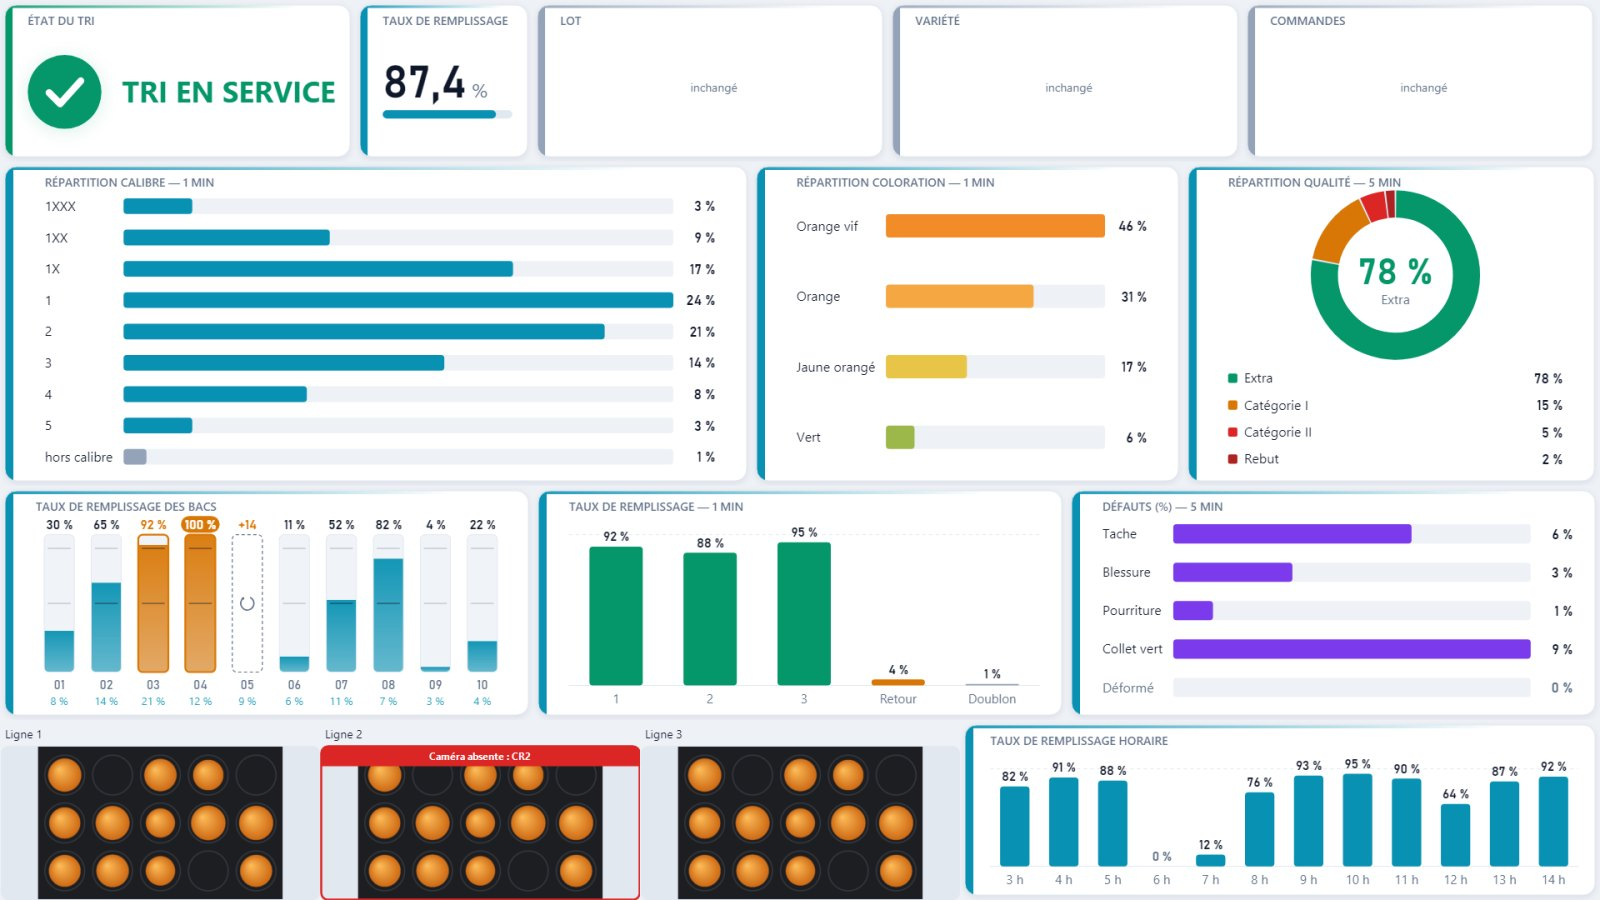
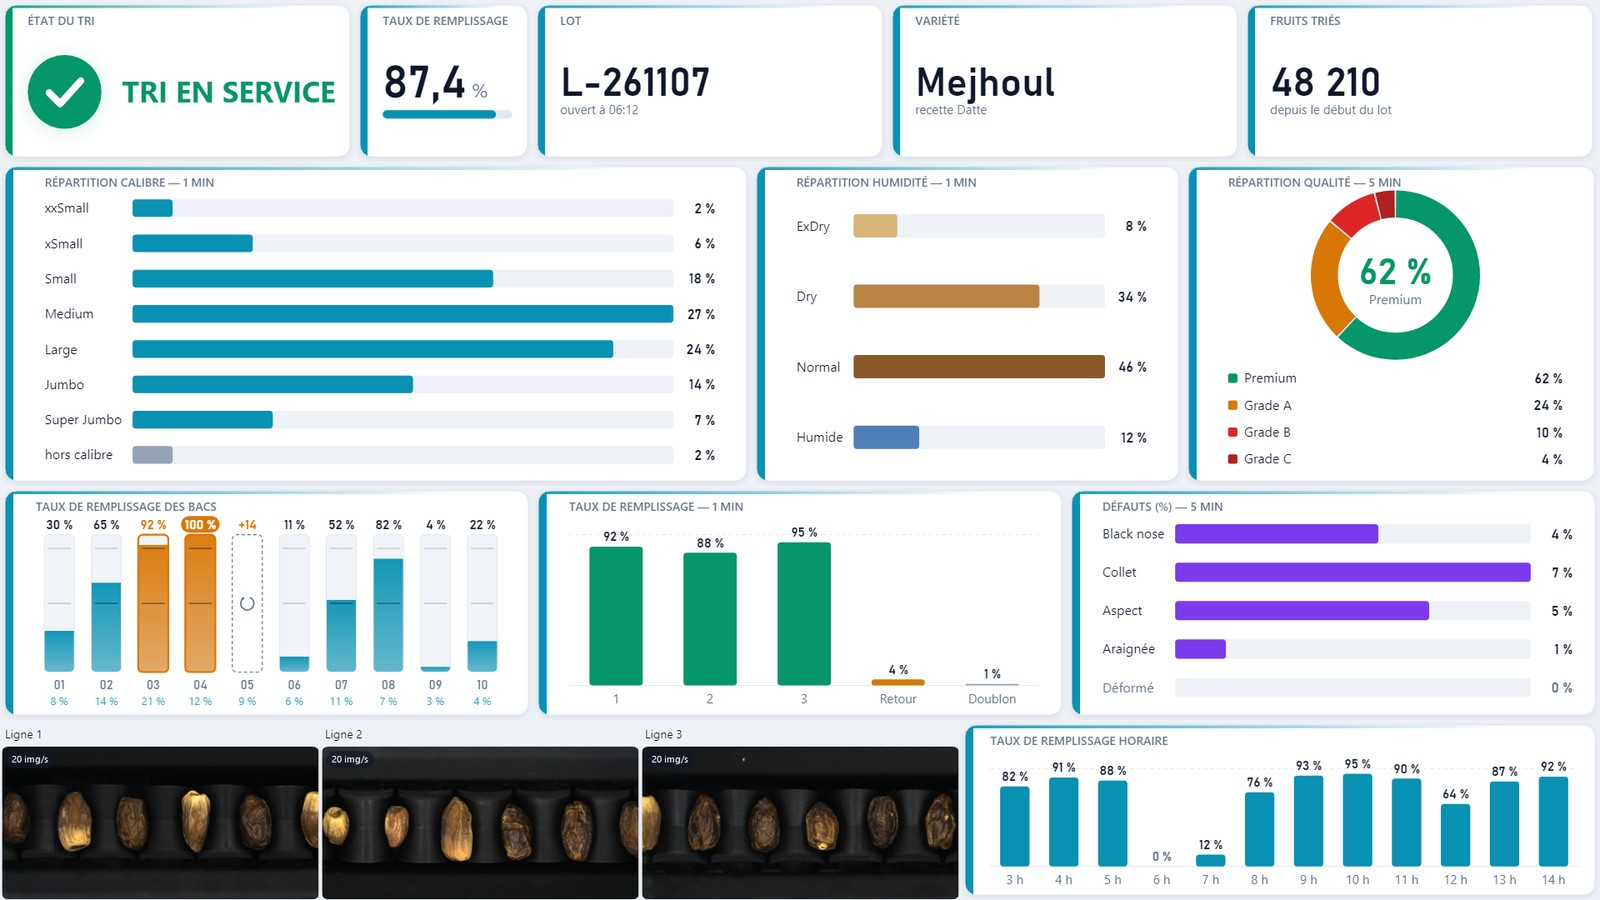
Suivi de production en vraies images dt01 ; texte de la vidéo
- Tuile « Suivi de production » (et écran du pupitre dans la simulation) : écran rendu par
  les composants de l'application, trois vraies vues caméra de dattes (dt01) à la place des
  oranges dessinées ; données d'exemple au vocabulaire datte (calibres xxSmall à Super Jumbo,
  humidité ExDry/Dry/Normal/Humide, Premium/Grade A-C, défauts black nose, collet, aspect,
  araignée) ; lot, variété et fruits triés au lieu de cases « inchangé ».
- Vidéo : « Reportage sur une ligne de tomates cerises au Maroc… » (le début coupé montrait
  des fruits du monde entier).

diff --git a/ar/index.html b/ar/index.html
@@ -518,7 +518,7 @@ html[dir=rtl] .chiffres div:last-child{border-left:0}
       <p class="chapo">واجهة لمسية مصمّمة للورشة: أزرار كبيرة، وحالات تُقرأ من بعيد، وإعدادات تبقى بين أيدي الأشخاص المخوَّلين.</p>
     </div>
     <div class="bento">
-      <div class="tuile ecran t1 apparait"><img src="../media/ui-suivi.jpg" alt="شاشة متابعة الإنتاج في Freescan" loading="lazy"><div class="legende"><h3>متابعة الإنتاج في الوقت الحقيقي</h3><p>حالة الفرز، وامتلاء الحاويات، والتوزيع حسب الحجم واللون والجودة، وصور الكاميرات.</p></div></div>
+      <div class="tuile ecran t1 apparait"><img src="../media/ui-suivi.jpg?v=2" alt="شاشة متابعة الإنتاج في Freescan" loading="lazy"><div class="legende"><h3>متابعة الإنتاج في الوقت الحقيقي</h3><p>حالة الفرز، وامتلاء الحاويات، والتوزيع حسب الحجم واللون والجودة، وصور الكاميرات.</p></div></div>
       <div class="tuile ecran t2 apparait"><img src="../media/ui-couleur.jpg" alt="شاشة تحديد الألوان" loading="lazy"><div class="legende"><h3>لون قابل للضبط</h3><p>مدرّج الصبغة، وعتبات تُضبط باللمس.</p></div></div>
       <div class="tuile ecran t3 apparait"><img src="../media/ui-vues.jpg?v=2" alt="شاشة التأهيل: صور حقيقية من الكاميرا لطماطم كرزية متشققة" loading="lazy"><div class="legende"><h3>المشغّل يُصادق</h3><p>عيب مشكوك فيه؟ نعم أو لا: والذكاء الاصطناعي يتعلّم.</p></div></div>
       <div class="tuile t4 apparait"><div class="ico"><svg viewBox="0 0 24 24" fill="none" stroke="currentColor" stroke-width="1.8" stroke-linecap="round" stroke-linejoin="round"><rect x="4" y="4" width="16" height="16" rx="2"/><path d="M9 9h6v6H9zM9 1v3M15 1v3M9 20v3M15 20v3M20 9h3M20 14h3M1 9h3M1 14h3"/></svg></div><h3>ذكاء اصطناعي على GPU</h3><p>شبكات عصبية مُدرَّبة على فواكهكم، تعمل على بطاقة رسومية.</p></div>
@@ -536,7 +536,7 @@ html[dir=rtl] .chiffres div:last-child{border-left:0}
     <div class="apparait">
       <span class="surtitre">أثناء العمل</span>
       <h2>Freescan في الميدان.</h2>
-      <p class="chapo">من فواكه العالم إلى خطوط التلفيف المغربية: اكتشفوا آلة الفرز أثناء الإنتاج.</p>
+      <p class="chapo">روبورتاج من خط تلفيف الطماطم الكرزية بالمغرب: آلة الفرز أثناء الإنتاج، من خطوط الفرز إلى الصناديق.</p>
     </div>
     <div class="film apparait" id="film">
       <video preload="none" playsinline controls poster="../media/presentation.jpg?v=2"><source src="../media/presentation.mp4?v=2" type="video/mp4"></video>
@@ -678,6 +678,6 @@ html[dir=rtl] .chiffres div:last-child{border-left:0}
 <script>
 (function(){try{var c=document.createElement('canvas');if(!(c.getContext('webgl2')||c.getContext('webgl')))throw 0}catch(e){document.documentElement.classList.add('sans-webgl')}})();
 </script>
-<script type="module" src="../js/anatomie.js?v=17"></script>
+<script type="module" src="../js/anatomie.js?v=18"></script>
 </body>
 </html>

diff --git a/index.html b/index.html
@@ -495,7 +495,7 @@ footer a:hover{color:var(--texte)}
       <p class="chapo">Une interface tactile pensée pour l'atelier : grands boutons, états lisibles de loin, et des réglages qui restent entre les mains de personnes habilitées.</p>
     </div>
     <div class="bento">
-      <div class="tuile ecran t1 apparait"><img src="media/ui-suivi.jpg" alt="Écran Suivi de production de Freescan" loading="lazy"><div class="legende"><h3>Suivi de production en temps réel</h3><p>État du tri, remplissage des bacs, répartition par calibre, couleur et qualité, images des caméras.</p></div></div>
+      <div class="tuile ecran t1 apparait"><img src="media/ui-suivi.jpg?v=2" alt="Écran Suivi de production de Freescan" loading="lazy"><div class="legende"><h3>Suivi de production en temps réel</h3><p>État du tri, remplissage des bacs, répartition par calibre, couleur et qualité, images des caméras.</p></div></div>
       <div class="tuile ecran t2 apparait"><img src="media/ui-couleur.jpg" alt="Écran de définition des couleurs" loading="lazy"><div class="legende"><h3>Couleur réglable</h3><p>Histogramme de teinte, seuils au doigt.</p></div></div>
       <div class="tuile ecran t3 apparait"><img src="media/ui-vues.jpg?v=2" alt="Écran de qualification : vues caméra réelles d'une tomate cerise éclatée" loading="lazy"><div class="legende"><h3>L'opérateur valide</h3><p>Un défaut douteux ? Oui, non : l'IA apprend.</p></div></div>
       <div class="tuile t4 apparait"><div class="ico"><svg viewBox="0 0 24 24" fill="none" stroke="currentColor" stroke-width="1.8" stroke-linecap="round" stroke-linejoin="round"><rect x="4" y="4" width="16" height="16" rx="2"/><path d="M9 9h6v6H9zM9 1v3M15 1v3M9 20v3M15 20v3M20 9h3M20 14h3M1 9h3M1 14h3"/></svg></div><h3>IA sur GPU</h3><p>Réseaux de neurones entraînés sur vos fruits, exécutés sur carte graphique.</p></div>
@@ -513,7 +513,7 @@ footer a:hover{color:var(--texte)}
     <div class="apparait">
       <span class="surtitre">En action</span>
       <h2>Freescan, sur le terrain.</h2>
-      <p class="chapo">Des fruits du monde entier aux lignes de conditionnement marocaines : découvrez la calibreuse en production.</p>
+      <p class="chapo">Reportage sur une ligne de tomates cerises au Maroc : la calibreuse en production, des voies de tri jusqu'aux caisses.</p>
     </div>
     <div class="film apparait" id="film">
       <video preload="none" playsinline controls poster="media/presentation.jpg?v=2"><source src="media/presentation.mp4?v=2" type="video/mp4"></video>
@@ -655,6 +655,6 @@ footer a:hover{color:var(--texte)}
 <script>
 (function(){try{var c=document.createElement('canvas');if(!(c.getContext('webgl2')||c.getContext('webgl')))throw 0}catch(e){document.documentElement.classList.add('sans-webgl')}})();
 </script>
-<script type="module" src="js/anatomie.js?v=17"></script>
+<script type="module" src="js/anatomie.js?v=18"></script>
 </body>
 </html>

diff --git a/en/index.html b/en/index.html
@@ -495,7 +495,7 @@ footer a:hover{color:var(--texte)}
       <p class="chapo">A touch interface designed for the shop floor: large buttons, statuses readable from afar, and settings that stay in the hands of authorised people.</p>
     </div>
     <div class="bento">
-      <div class="tuile ecran t1 apparait"><img src="../media/ui-suivi.jpg" alt="Freescan production monitoring screen" loading="lazy"><div class="legende"><h3>Real-time production monitoring</h3><p>Grading status, bin filling, breakdown by size, colour and quality, camera images.</p></div></div>
+      <div class="tuile ecran t1 apparait"><img src="../media/ui-suivi.jpg?v=2" alt="Freescan production monitoring screen" loading="lazy"><div class="legende"><h3>Real-time production monitoring</h3><p>Grading status, bin filling, breakdown by size, colour and quality, camera images.</p></div></div>
       <div class="tuile ecran t2 apparait"><img src="../media/ui-couleur.jpg" alt="Colour definition screen" loading="lazy"><div class="legende"><h3>Adjustable colour</h3><p>Hue histogram, thresholds set by touch.</p></div></div>
       <div class="tuile ecran t3 apparait"><img src="../media/ui-vues.jpg?v=2" alt="Qualification screen: real camera views of a split cherry tomato" loading="lazy"><div class="legende"><h3>The operator confirms</h3><p>A doubtful defect? Yes or no: the AI learns.</p></div></div>
       <div class="tuile t4 apparait"><div class="ico"><svg viewBox="0 0 24 24" fill="none" stroke="currentColor" stroke-width="1.8" stroke-linecap="round" stroke-linejoin="round"><rect x="4" y="4" width="16" height="16" rx="2"/><path d="M9 9h6v6H9zM9 1v3M15 1v3M9 20v3M15 20v3M20 9h3M20 14h3M1 9h3M1 14h3"/></svg></div><h3>AI on GPU</h3><p>Neural networks trained on your fruit, running on a graphics card.</p></div>
@@ -513,7 +513,7 @@ footer a:hover{color:var(--texte)}
     <div class="apparait">
       <span class="surtitre">In action</span>
       <h2>Freescan in the field.</h2>
-      <p class="chapo">From fruit around the world to Moroccan packing lines: see the grader in production.</p>
+      <p class="chapo">Report from a cherry tomato packing line in Morocco: the grader in production, from the sorting lanes to the crates.</p>
     </div>
     <div class="film apparait" id="film">
       <video preload="none" playsinline controls poster="../media/presentation.jpg?v=2"><source src="../media/presentation.mp4?v=2" type="video/mp4"></video>
@@ -655,6 +655,6 @@ footer a:hover{color:var(--texte)}
 <script>
 (function(){try{var c=document.createElement('canvas');if(!(c.getContext('webgl2')||c.getContext('webgl')))throw 0}catch(e){document.documentElement.classList.add('sans-webgl')}})();
 </script>
-<script type="module" src="../js/anatomie.js?v=17"></script>
+<script type="module" src="../js/anatomie.js?v=18"></script>
 </body>
 </html>

diff --git a/js/anatomie.js b/js/anatomie.js
@@ -425,7 +425,7 @@ pupitre.position.set(X_VISION - PV.zm - 0.5, 0, -1.56);   // juste avant la cell
   boite(Dx, H, Wz, M.inoxBrosse, 0, H / 2, 0, pupitre, 0.03);
   boite(0.02, H * 0.36, Wz - 0.1, M.inox, -Dx / 2 - 0.01, H * 0.8, 0, pupitre, 0.006);        // porte haute
   boite(0.02, H * 0.58, Wz - 0.1, M.inox, -Dx / 2 - 0.01, H * 0.31, 0, pupitre, 0.006);       // porte basse
-  const ecranTex = new THREE.TextureLoader().load(new URL('../media/ui-suivi.jpg', import.meta.url).href); ecranTex.colorSpace = THREE.SRGBColorSpace;
+  const ecranTex = new THREE.TextureLoader().load(new URL('../media/ui-suivi.jpg?v=2', import.meta.url).href); ecranTex.colorSpace = THREE.SRGBColorSpace;
   boite(0.03, 0.46, 0.7, new THREE.MeshStandardMaterial({ color: '#e9ecef', roughness: 0.5 }), -Dx / 2 - 0.03, 1.5, 0, pupitre, 0.01);
   const ecran = new THREE.Mesh(new THREE.PlaneGeometry(0.6, 0.36), new THREE.MeshBasicMaterial({ map: ecranTex, toneMapped: false }));
   ecran.position.set(-Dx / 2 - 0.047, 1.5, 0); ecran.rotation.y = -Math.PI / 2; pupitre.add(ecran);
